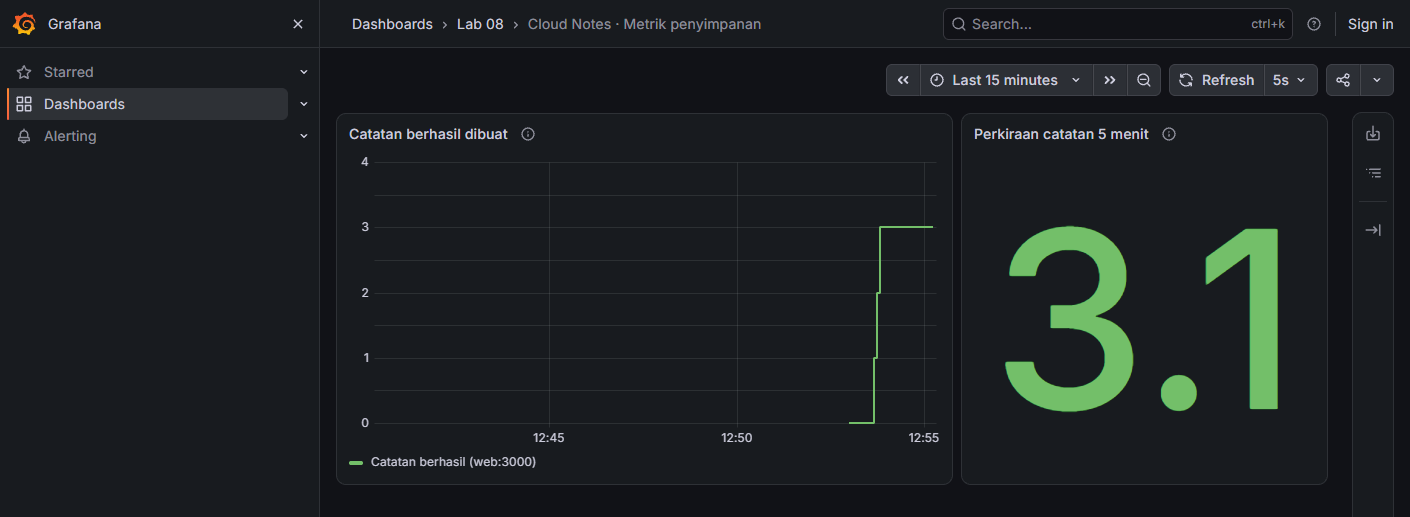
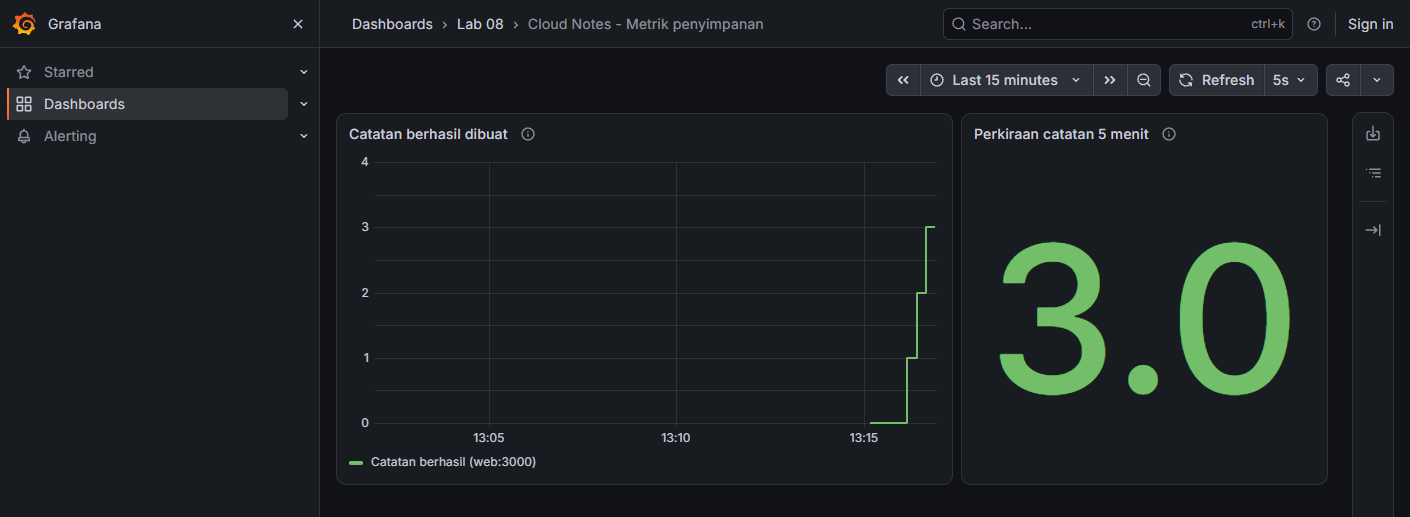
Illustrate the student walkthrough with verified local and Codespaces screens

diff --git a/README.md b/README.md
@@ -126,6 +126,8 @@ docker compose --profile monitoring ps
 
 Di Codespaces, **Ports** berada di panel bawah di samping **Terminal**. Jika nomor belum terlihat, pilih **Add Port**, ketik nomor, lalu tekan Enter. Pada setiap baris pastikan **Visibility → Private**, kemudian klik ikon globe atau klik kanan **Open in Browser**. Alamat HTTPS milik teman akan berbeda dari alamatmu.
 
+![Panel Ports di Codespaces. Ketiga port 3000, 3301 dan 9091 memiliki ikon gembok dan status Private.](screenshots/monitoring-codespaces-ports.jpg)
+
 ### 3. Lihat angka awal dan pastikan target UP
 
 1. Buka tab Cloud Notes. Buat tab salinan, tambahkan `/api/metrics` pada alamat aplikasi, kemudian tekan Enter. Cari tiga baris di bawah. Baris terakhir berisi angka milikmu. **Catat angka awal** sebelum menguji tombol Simpan.
@@ -151,6 +153,8 @@ Di Codespaces, **Ports** berada di panel bawah di samping **Terminal**. Jika nom
 2. Muat ulang `/api/metrics`. Counter seharusnya naik satu dari angka awal. Tunggu sekitar 6–10 detik, kembali ke tab Prometheus, lalu **Execute** untuk membaca sampel terbaru.
 3. Simpan sekali lagi dengan judul `Metrik dua` dan isi `Percobaan kedua`. Ulangi pengecekan tadi. Misalnya, jika angka awal **0**, urutannya **0 → 1 → 2**. Jika angka awal **7**, hasil akhirnya **9**.
 4. Muat ulang daftar catatan tiga kali. Setelah Prometheus mengambil sampel berikutnya, jalankan kueri yang sama. Nilainya tetap jika hanya kamu yang memakai mesin itu. Di **Graph**, pilih rentang yang mencakup percobaan untuk melihat kenaikannya.
+
+![Formulir dengan tombol Simpan dan catatan yang berhasil muncul di Daftar catatan pada Codespaces.](screenshots/monitoring-codespaces-notes.jpg)
 
 **Dari mana angka itu berasal?** Buka tiga bagian kode berikut sesuai urutan kejadian.
 
@@ -188,6 +192,10 @@ Di Grafana buka **Cloud Notes - Metrik penyimpanan**. Pilih **Last 15 minutes**,
 | **Perkiraan catatan 5 menit** — `job:cloudnotes_notes_created:increase5m{job="cloudnotes_web"}` | **Stat / Instant** menampilkan hasil aturan terakhir. Fungsi `increase` memperkirakan perubahan sampai tepi jendela pengamatan dan memperhitungkan reset counter. Karena itu, setelah tiga simpan, kamu bisa melihat misalnya **3,1**. Ketika lima menit berlalu tanpa simpan baru, perkiraan dapat kembali ke nol. [Fungsi increase](https://prometheus.io/docs/prometheus/latest/querying/functions/#increase) |
 
 ![Dashboard Grafana dengan grafik counter penyimpanan dan panel Stat untuk perkiraan lima menit](screenshots/monitoring-grafana.png)
+
+Pada contoh **Docker lokal** di atas, tiga kali simpan membawa garis dari 0 ke 3. Pada contoh **Codespaces** di bawah, garis mencapai 6, sedangkan Stat membaca 3,1. Garis mencakup semua penyimpanan sejak web dinyalakan. Stat memperkirakan penyimpanan selama lima menit terakhir. Angkamu mengikuti catatan dan waktu percobaanmu sendiri.
+
+![Dashboard langsung dari Codespaces dengan counter terakhir 6 dan perkiraan lima menit 3,1.](screenshots/monitoring-codespaces-grafana.jpg)
 
 Grafana sudah memperoleh sumber data **Lab 08 Prometheus** dari konfigurasi repo. Server Grafana menghubungi `http://prometheus-lab08:9090` lewat jaringan Docker. Browser di laptop mengakses Prometheus lewat port `9091`; browser untuk Codespaces memakai tautan privat dari **Ports**. Keduanya menuju Prometheus di mesin latihan masing-masing. [Lihat koneksi Grafana](monitoring/grafana/provisioning/datasources/prometheus.yml)
 
